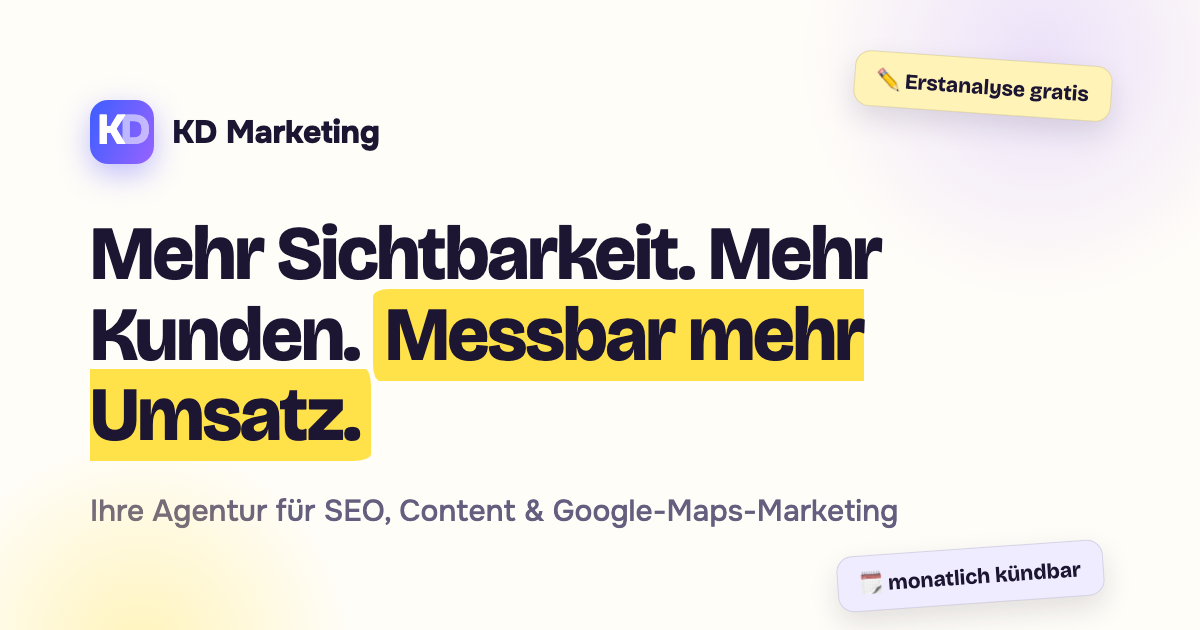
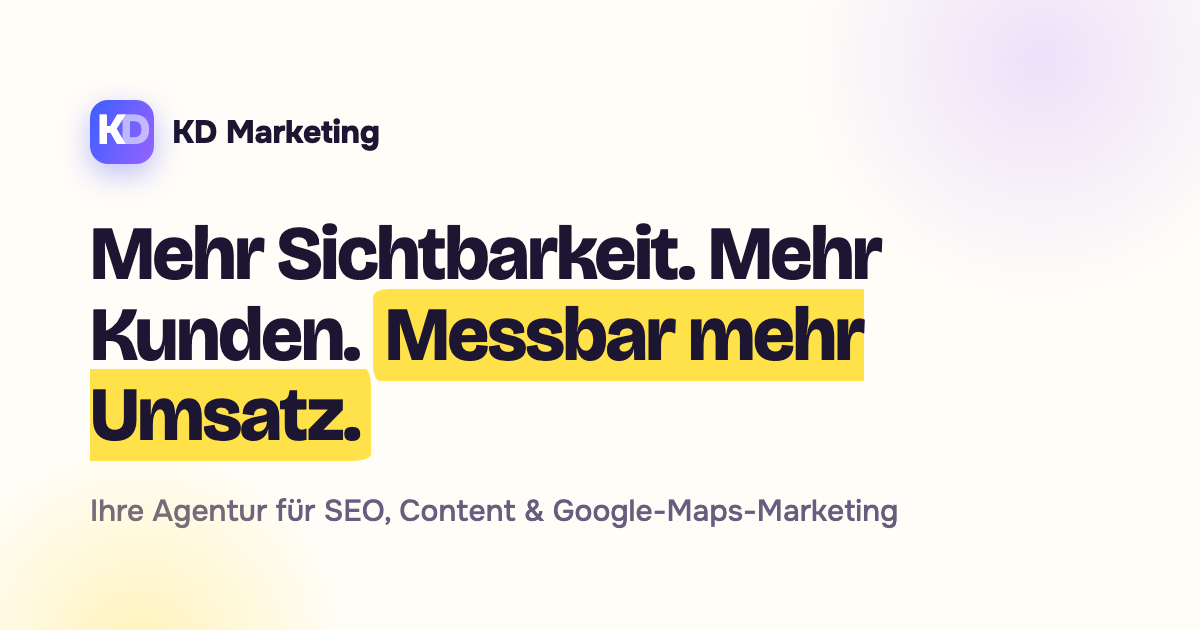
Sticker-Chips entfernt (Hero + OG-Image), Verfügbarkeits-Badge begradigt
Wirkte zu verspielt/billig — Hero jetzt ruhiger, Marker-Highlight bleibt
als einziges verspieltes Element.

Changed region(s): [[0.7092, 0.0603, 0.925, 0.2111], [0.7092, 0.8746, 0.8942, 0.9349]]

diff --git a/index.html b/index.html
@@ -130,18 +130,6 @@ header{
     radial-gradient(460px 340px at 84% 22%,rgba(61,94,255,.13),transparent 70%),
     radial-gradient(380px 300px at 70% 78%,rgba(255,226,74,.22),transparent 70%);
 }
-.stick{
-  position:absolute;z-index:3;
-  font-family:var(--display);font-weight:700;font-size:14.5px;letter-spacing:-.01em;
-  background:#fff;border:1.5px solid var(--line);border-radius:14px;
-  padding:9px 15px;box-shadow:0 10px 24px rgba(28,22,51,.12);
-  pointer-events:none;
-}
-.stick.s1{top:118px;left:4%;transform:rotate(-7deg);background:#f0ecff}
-.stick.s2{top:96px;right:5%;transform:rotate(5deg);background:#fff3b8}
-.stick.s3{top:330px;right:2%;transform:rotate(-4deg)}
-.stick.s4{top:390px;left:2.5%;transform:rotate(4deg);background:#e7f9ee}
-@media(max-width:1100px){.stick{display:none}}
 .hero .wrap{position:relative}
 h1{
   font-family:var(--display);
@@ -450,7 +438,6 @@ h2{
   background:#fff;border:1px solid var(--line);border-radius:999px;
   padding:9px 16px;font-size:13px;font-weight:700;letter-spacing:-.01em;
   box-shadow:0 10px 26px rgba(56,56,120,.16);
-  transform:rotate(2deg);
 }
 .avail .dot{width:8px;height:8px;border-radius:50%;background:#22c55e;box-shadow:0 0 0 0 rgba(34,197,94,.5);animation:availpulse 1.8s infinite}
 @keyframes availpulse{0%{box-shadow:0 0 0 0 rgba(34,197,94,.45)}70%{box-shadow:0 0 0 9px rgba(34,197,94,0)}100%{box-shadow:0 0 0 0 rgba(34,197,94,0)}}
@@ -628,10 +615,6 @@ html.js .reveal.in{opacity:1;transform:none}
 
 <section class="hero" id="top">
   <div class="hero-glow"></div>
-  <span class="stick s1">💜 Direkter Draht</span>
-  <span class="stick s2">✏ Erstanalyse gratis</span>
-  <span class="stick s3">🗓 monatlich kündbar</span>
-  <span class="stick s4">✓ 100 % transparent</span>
   <div class="wrap">
     <div class="eyebrow"><span class="dot"></span> Digital-Marketing-Agentur</div>
     <h1>Mehr Sichtbarkeit. Mehr Kunden. <span class="hl">Messbar mehr Umsatz.</span></h1>
